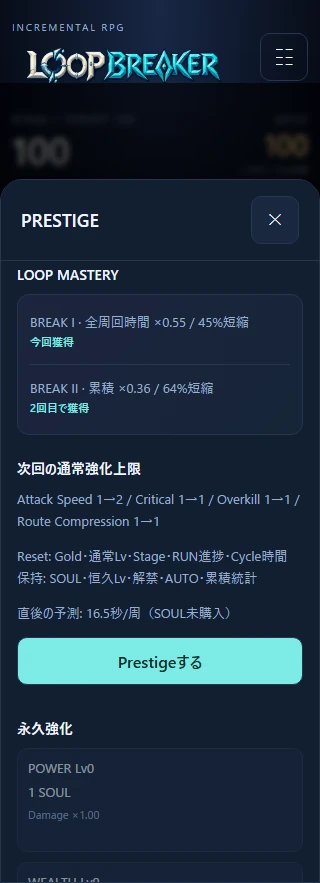
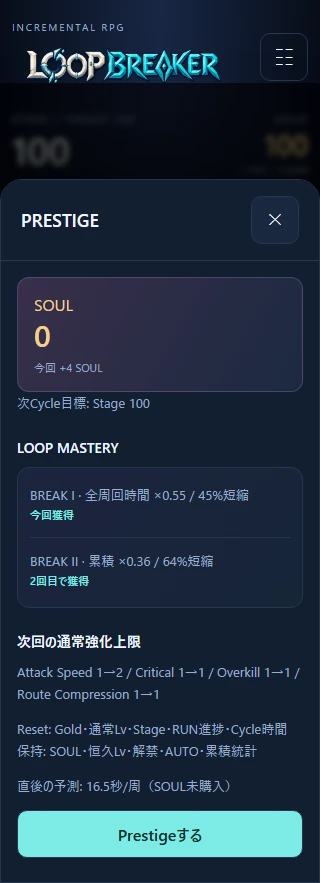
fix: reset bottom sheet scroll on open

Changed region(s): [[0.0312, 0.3058, 0.9688, 1.0], [0.625, 0.3364, 0.7812, 0.3669], [0.875, 0.5504, 0.9062, 0.581]]

diff --git a/tests/e2e/visual.spec.ts b/tests/e2e/visual.spec.ts
@@ -254,6 +254,52 @@ test("MASTERY celebrates the command, expires, and does not replay on Import", a
     )
     .toBe("none");
 });
+test("opening a sheet resets its shared scroll position", async ({ page }) => {
+  // Keep each project's width; a shorter viewport makes all source sheets scrollable.
+  await page.setViewportSize({
+    width: page.viewportSize()?.width ?? 320,
+    height: 400,
+  });
+  await importSave(page, fixture("prestige"));
+  const dialog = page.getByRole("dialog");
+  const close = async () => {
+    // Escape closes without a click that could itself scroll the sheet to its heading.
+    await page.keyboard.press("Escape");
+    await expect(dialog).not.toBeVisible();
+  };
+  const expectTop = async () => {
+    await expect(dialog).toBeVisible();
+    await expect
+      .poll(() => dialog.evaluate((e) => e.scrollTop))
+      .toBeLessThanOrEqual(1);
+  };
+  const scrollBottom = async () => {
+    await expect(dialog).toBeVisible();
+    await dialog.evaluate((e) => {
+      e.scrollTop = e.scrollHeight;
+    });
+    await expect
+      .poll(() => dialog.evaluate((e) => e.scrollTop))
+      .toBeGreaterThan(0);
+  };
+  await page.getByRole("button", { name: "設定・Save" }).click();
+  await scrollBottom();
+  await close();
+  await page.getByRole("button", { name: /Prestige ·/ }).click();
+  await expectTop();
+  await expect(dialog.locator(".soul-banner")).toBeInViewport({ ratio: 1 });
+  await close();
+  await page.getByRole("button", { name: "UPGRADES ↗" }).click();
+  await scrollBottom();
+  await close();
+  await page.getByRole("button", { name: "Stats", exact: true }).click();
+  await expectTop();
+  await scrollBottom();
+  await close();
+  await page.getByRole("button", { name: "設定・Save" }).click();
+  await expectTop();
+});
+
 test("failed images preserve layout and accessible labels", async ({
   page,
 }) => {

diff --git a/src/ui/App.tsx b/src/ui/App.tsx
@@ -96,6 +96,7 @@ export function App({ runtime }: { runtime: GameRuntime }) {
   useEffect(() => {
     if (sheet) {
       dialog.current?.showModal();
+      if (dialog.current) dialog.current.scrollTop = 0;
     } else {
       dialog.current?.close();
       opener.current?.focus();

diff --git a/docs/ART_ASSETS.md b/docs/ART_ASSETS.md
@@ -65,6 +65,6 @@ python scripts/optimize_assets.py source-manifest.json
 
 ## 検証・残課題
 
-既存40件を維持し、Zone境界10ケースと17枚のWebP/alpha/寸法/容量検証を追加して単体・統合51件。既存E2E18件に4シナリオ×320/360/PCを追加して30件。全Zoneの画像デコード・404なし、Boss、固定Arena、購入48px、重要数値の非遮蔽、BURST固定DOM、巨大表示、二種類のReduced Motion、MASTERY/期限/Import非再生、失敗fallback、横スクロールなし、pageerrorなしを確認する。
+既存40件を維持し、Zone境界10ケースと17枚のWebP/alpha/寸法/容量検証を追加して単体・統合51件。既存E2E18件に5シナリオ×320/360/PCを追加して33件。全Zoneの画像デコード・404なし、Boss、固定Arena、購入48px、重要数値の非遮蔽、BURST固定DOM、巨大表示、二種類のReduced Motion、MASTERY/期限/Import非再生、シートOPEN時の先頭表示（SETTINGS→PRESTIGE / UPGRADES→STATS / STATS→SETTINGS）とSOULパネルのviewport内表示、失敗fallback、横スクロールなし、pageerrorなしを確認する。
 
-lint・typecheck・単体/統合51件・E2E30件・production buildはすべて成功。buildのbaseは /loop-breaker/。レビュー画像は [review/ISSUE_5_VISUAL_REVIEW.md](review/ISSUE_5_VISUAL_REVIEW.md)。ゲーム計算・balance設定・Save・runtime・既存テストは変更していない。iOS Safari実機の画面ロック/スクロール/描画負荷は未確認で、ブラウザ自動検証はChromium。公開・deploy・新機能・バランス調整はこのIssueに含めない。
+lint・typecheck・単体/統合51件・E2E33件・production buildはすべて成功。buildのbaseは /loop-breaker/。レビュー画像は [review/ISSUE_5_VISUAL_REVIEW.md](review/ISSUE_5_VISUAL_REVIEW.md)。ゲーム計算・balance設定・Save・runtime・既存テストは変更していない。iOS Safari実機の画面ロック/スクロール/描画負荷は未確認で、ブラウザ自動検証はChromium。公開・deploy・新機能・バランス調整はこのIssueに含めない。

diff --git a/docs/review/ISSUE_5_VISUAL_REVIEW.md b/docs/review/ISSUE_5_VISUAL_REVIEW.md
@@ -2,7 +2,7 @@
 
 Playwright Chromiumで取得したレビュー用画面。通常画面は320×720 / 360×800 / PC 1280×900のviewportで確認した。fullPage画像にはスクロール先も含む。静止画のためMASTERYの登場アニメーションは撮影時に完了させている。
 
-ゲーム用アセット17枚とは別の証跡で、ゲームから配信・読み込みしない。7枚合計232,146 bytes。
+ゲーム用アセット17枚とは別の証跡で、ゲームから配信・読み込みしない。7枚合計233,264 bytes。
 
 ## 通常戦闘とモバイル
 
